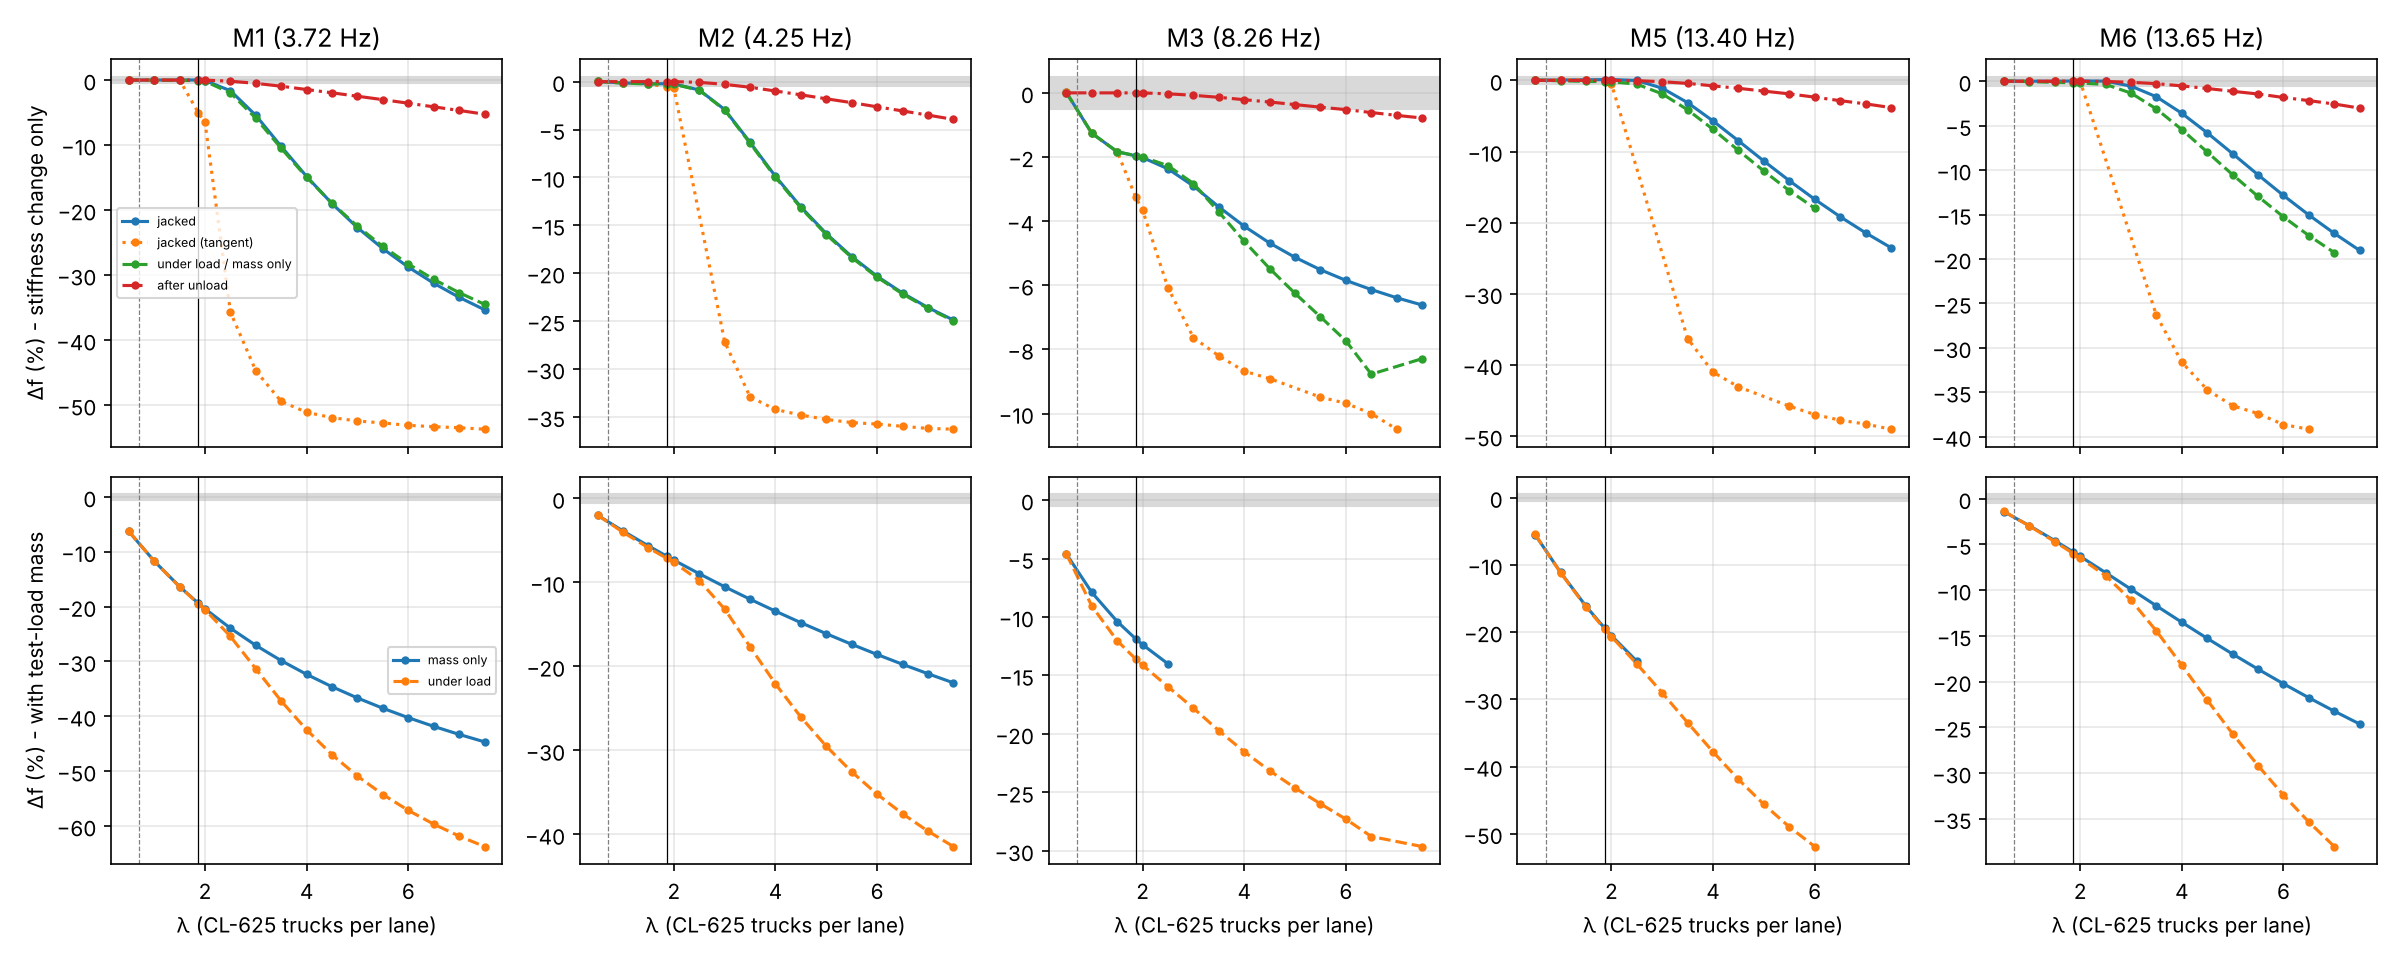
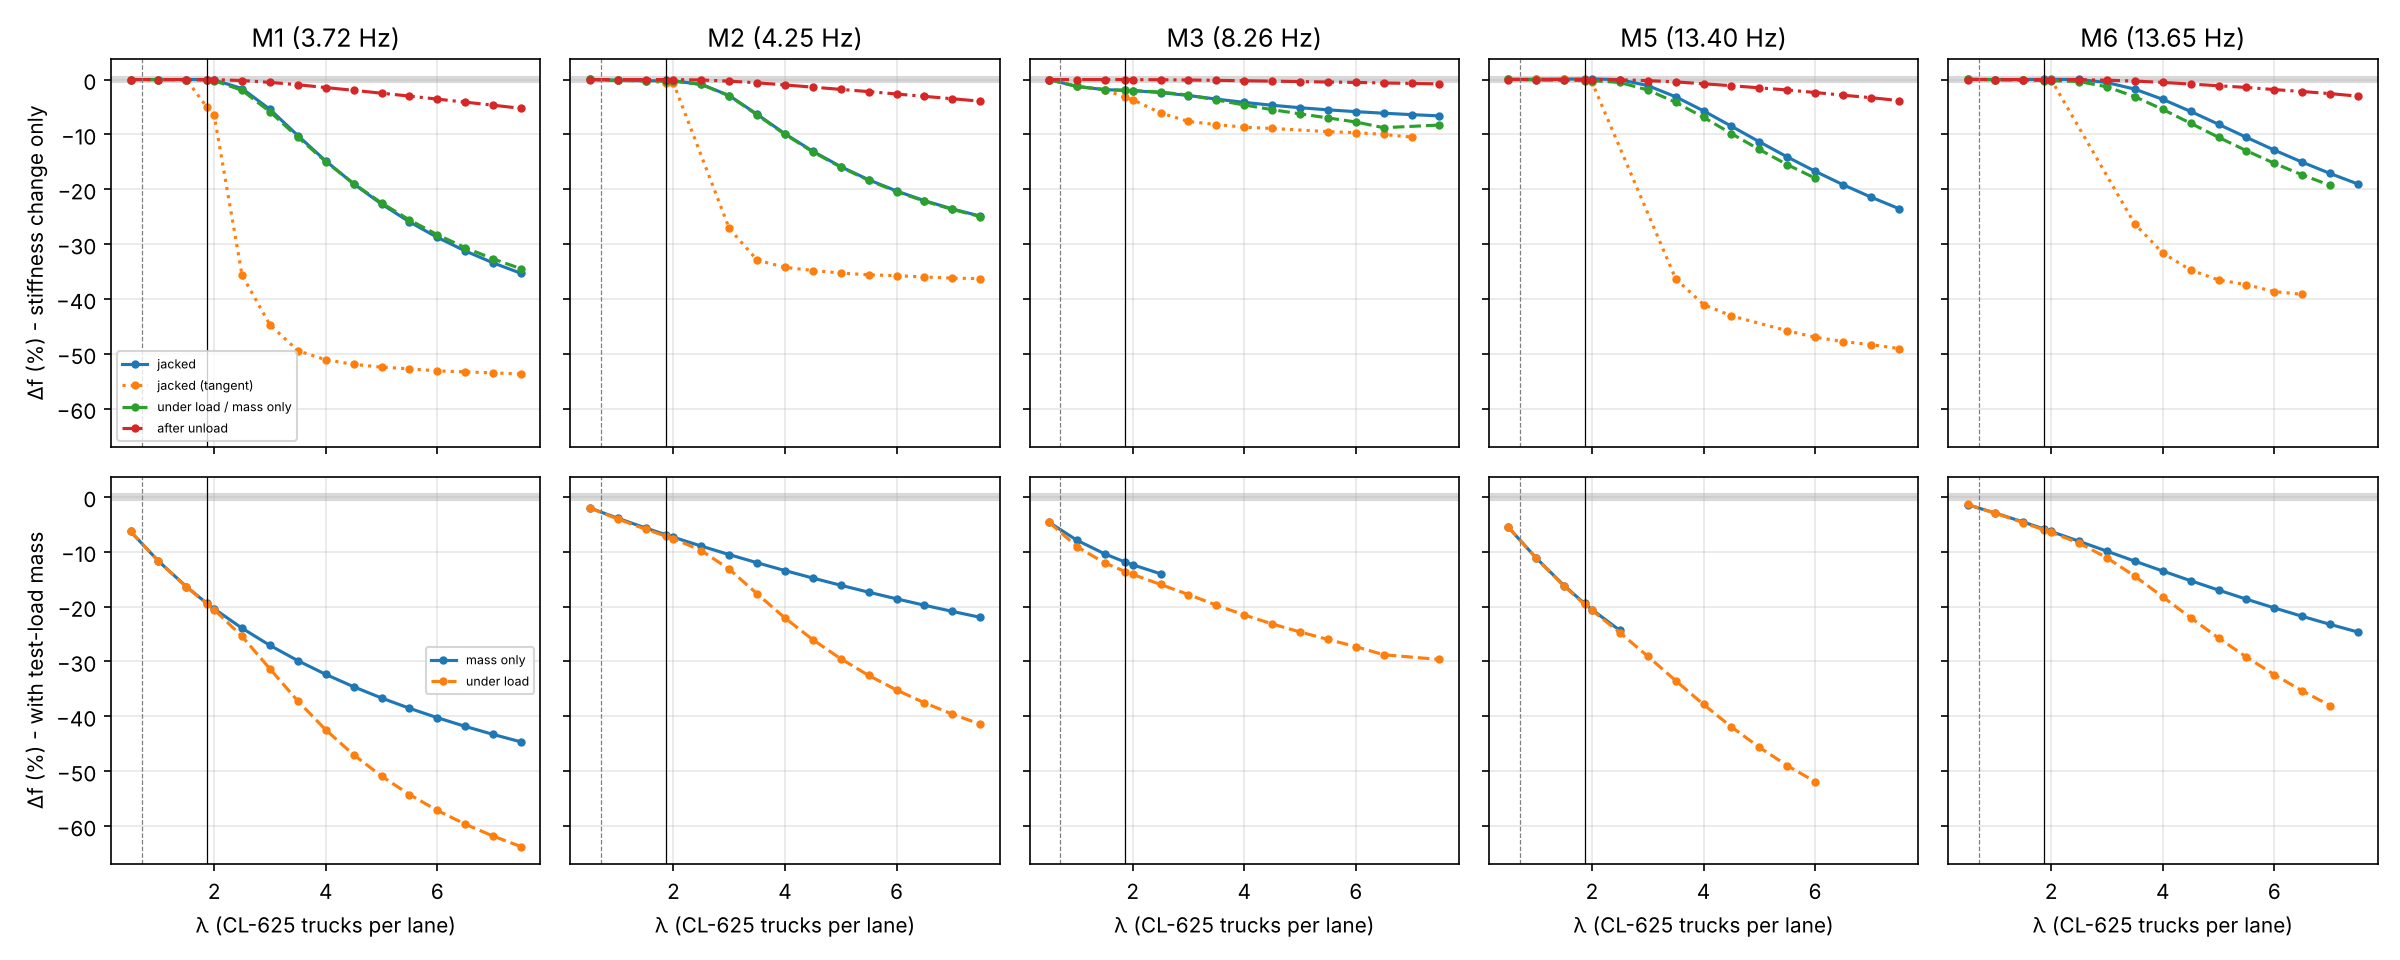
Limit states: common vertical scale on all frequency-change panels
Claude-Session: https://claude.ai/code/session_01RsKY2HZV2q9nJUfWH5iCmd

diff --git a/walker_road/limit_states.py b/walker_road/limit_states.py
@@ -656,7 +656,7 @@ def plot(out):
     import matplotlib.pyplot as plt
     st = out["stage2"]
     names = st["names"][:5]
-    fig, axs = plt.subplots(2, len(names), figsize=(3.2 * len(names), 6.4), sharex=True)
+    fig, axs = plt.subplots(2, len(names), figsize=(3.2 * len(names), 6.4), sharex=True, sharey=True)
     top = [("jacked", "df_pct", "-"), ("jacked (tangent)", "df_pct", ":"),
            ("under load", "df_stiffness_pct", "--"), ("after unload", "df_pct", "-.")]
     bot = [("mass only", "df_pct", "-"), ("under load", "df_pct", "--")]
